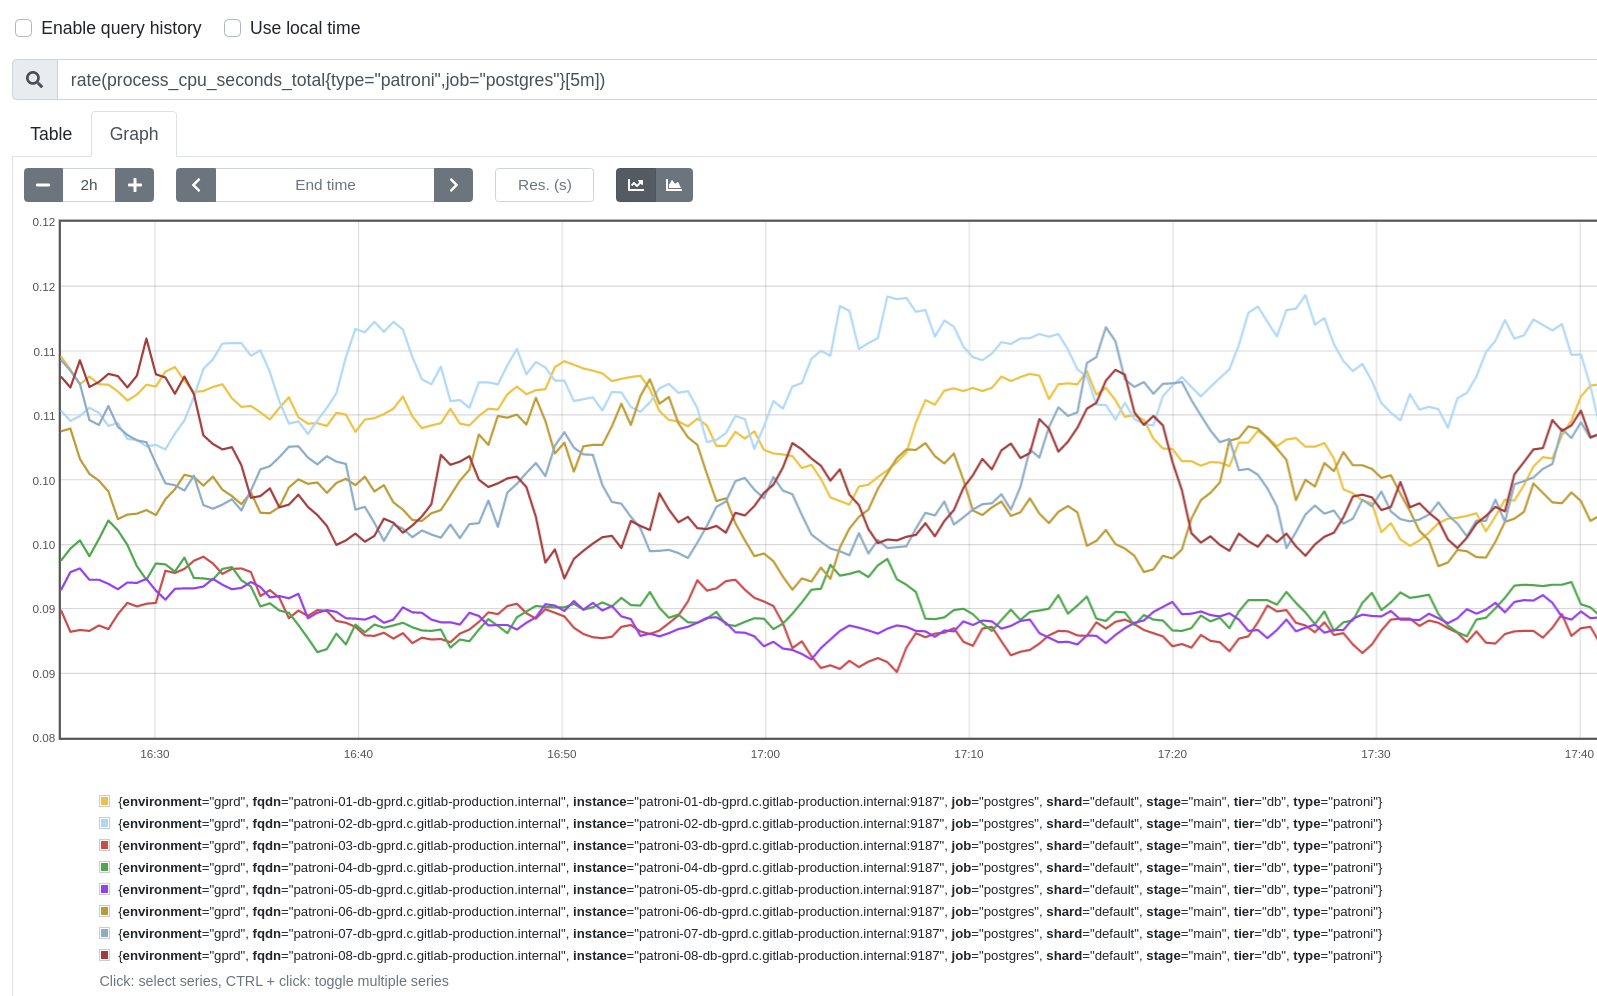
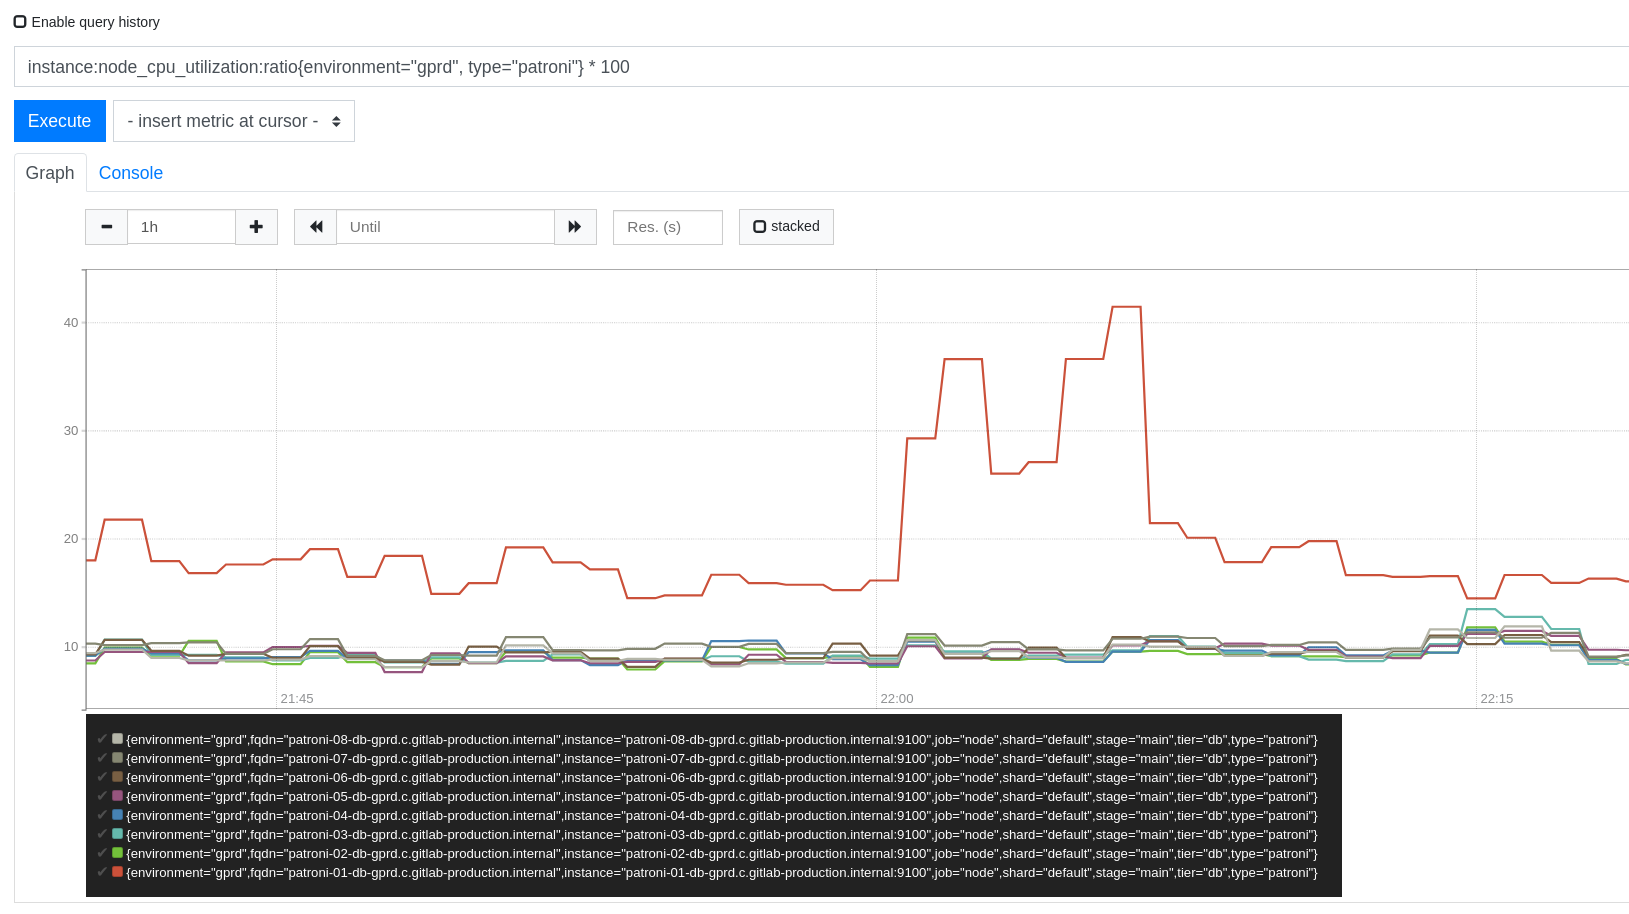
Adding more graphs and pgbouncer information

diff --git a/docs/patroni/performance-degradation-troubleshooting.md b/docs/patroni/performance-degradation-troubleshooting.md
@@ -4,7 +4,7 @@ Database performance degradation may be due to several reasons. This is an asort
 
 
 ### Check CPU utilization
-You can use [this metric](https://prometheus-db.gprd.gitlab.net/new/graph?g0.expr=rate(process_cpu_seconds_total%7Btype%3D%22patroni%22%2Cjob%3D%22postgres%22%7D%5B5m%5D)&g0.tab=0&g0.stacked=0&g0.range_input=2h) to check CPU utilization over the patroni hosts:
+You can use [this metric](https://prometheus.gprd.gitlab.net/graph?g0.range_input=1h&g0.expr=instance%3Anode_cpu_utilization%3Aratio%7Benvironment%3D%22gprd%22%2C%20type%3D%22patroni%22%7D%20*%20100&g0.tab=0&g1.range_input=1h&g1.expr=instance_cpu%3Anode_cpu_seconds_not_idle%3Arate1m&g1.tab=0) to check CPU utilization over the patroni hosts:
 ![](img/patroni-cpu-usage.png)
 
 Check if values are getting close to `1`
@@ -65,6 +65,39 @@ And if you found an specific `pid` that is using many IO%, you can execute `sudo
  
 ```
 
+Disk saturation may also be investigated using _iotop_ tool:
+
+```
+# iostat -x 1 3
+Linux 4.15.0-1047-gcp (patroni-01-db-gprd) 	07/07/2020 	_x86_64_	(96 CPU)
+
+avg-cpu:  %user   %nice %system %iowait  %steal   %idle
+           5.09    0.03    1.83    0.55    0.00   92.51
+
+Device:         rrqm/s   wrqm/s     r/s     w/s    rkB/s    wkB/s avgrq-sz avgqu-sz   await r_await w_await  svctm  %util
+loop0             0.00     0.00    0.00    0.00     0.00     0.00     3.20     0.00    0.00    0.00    0.00   0.00   0.00
+sdc               0.00     1.65    0.06    0.97     6.09    36.53    82.58     0.00    6.96    5.96    7.03   1.16   0.12
+sda               0.00     2.41    1.73    9.70    34.06  1858.20   330.96     0.12   13.27    7.14   14.37   1.38   1.57
+sdb               0.00    82.17  566.59 2433.62 23929.43 50266.94    49.46     0.18    0.03    0.34    0.04   0.07  19.55
+
+avg-cpu:  %user   %nice %system %iowait  %steal   %idle
+           8.38    0.00    2.48    0.50    0.00   88.63
+
+Device:         rrqm/s   wrqm/s     r/s     w/s    rkB/s    wkB/s avgrq-sz avgqu-sz   await r_await w_await  svctm  %util
+loop0             0.00     0.00    0.00    0.00     0.00     0.00     0.00     0.00    0.00    0.00    0.00   0.00   0.00
+sdc               0.00    12.00    0.00    7.00     0.00   112.00    32.00     0.00    0.00    0.00    0.00   0.00   0.00
+sda               0.00     0.00    0.00   38.00     0.00  9112.00   479.58     0.15    5.37    0.00    5.37   0.74   2.80
+sdb               0.00     0.00  490.00 1582.00  4220.00 18576.00    22.00     0.72    0.57    0.66    0.55   0.09  19.60
+
+avg-cpu:  %user   %nice %system %iowait  %steal   %idle
+          10.79    0.00    2.52    0.70    0.00   85.99
+
+Device:         rrqm/s   wrqm/s     r/s     w/s    rkB/s    wkB/s avgrq-sz avgqu-sz   await r_await w_await  svctm  %util
+loop0             0.00     0.00    0.00    0.00     0.00     0.00     0.00     0.00    0.00    0.00    0.00   0.00   0.00
+sdc               0.00     0.00    0.00    0.00     0.00     0.00     0.00     0.00    0.00    0.00    0.00   0.00   0.00
+sda               0.00     0.00    0.00    0.00     0.00     0.00     0.00     0.00    0.00    0.00    0.00   0.00   0.00
+sdb               0.00   133.00  903.00 1647.00  8180.00 22492.00    24.06     1.21    0.68    0.54    0.76   0.11  27.20
+```
 
 
 ### Check for differences in the graphs (same metric, different host)
@@ -77,5 +110,52 @@ In general, when those differences are not easy to explain, its because on some 
 
 
 
+### Check for slow queries
+
+[This board](https://dashboards.gitlab.com/d/000000278/postgresql-slow-queries?orgId=1&refresh=1m) contains information about how many queries took more than 5 seconds, and includes the same value from 7 days before, so you can easily compare both.
+
+Check [this board](https://dashboards.gitlab.com/d/000000153/postgresql-queries?orgId=1&refresh=1m&from=now-3h&to=now&var-environment=gprd&var-type=patroni&var-fqdn=patroni-01-db-gprd.c.gitlab-production.internal&var-prometheus=Global) to check for an increasing rate of slow queries (`Slow queries` graph). You can also check for blocked queries (`Blocked Queries` graph). For troubleshooting blocked queries, see [this runbook](postgresql-locking.md)
 
 
+### Checkpoint activity
+Checkpoint is the act of pushing all the write buffers to disk. A sudden increase of write activity (like indexing, repacking, etc) may also increase the rate of checkpoints, and can cause the system to slow down. You can see [this graph](https://dashboards.gitlab.com/d/000000224/postgresql-bloat?viewPanel=35&orgId=1&refresh=5m&from=now-1h&to=now) to see how often checkpoints are taking place. Focus on the current leader. If checkpoints do ocurr too often (more than [checkpoint_warning](https://postgresqlco.nf/en/doc/param/checkpoint_warning/11/)) you will see a message in the logs, similar to
+
+``` LOG:  checkpoints are occurring too frequently (8 seconds apart) ```
+
+Althoug this is more like a warning message, it can be OK under heavy write activity. 
+
+
+### Check the load from queries
+Too much concurrent activity can affect performance. Refer to [this runbook](postgresql-query-load-evaluation.md) to evaluate server activity.
+
+
+
+### Checks for pgBouncer
+
+#### Waiting clients
+The [PgBouncer Overview](https://dashboards.gitlab.com/d/PwlB97Jmk/pgbouncer-overview?orgId=1&from=now-3h&to=now) shows pgBouncer related information. When troubleshooting, check that:
+- if `Waiting Client Connections per Pool` is  consistenly high, it may be related to slow queries taking most available connections in the pool, so others have to wait. Refer to [this runbook](postgresql-query-load-evaluation.md) to evaluate server activity.
+
+- if `Connection Saturation per Pool` is consistenly close to 100%, probably the database is not able to keep up the requests. Refer to [this runbook](postgresql-query-load-evaluation.md) to evaluate server activity.
+
+- PgBouncer is single threaded. That means that a single core will do most of the job. If `pgbouncer Single Threaded CPU Saturation per Node
+` is consistently close to 100%, performance of pgBouncer will decrease. You can use the `SHOW CLIENTS` command to check where the clients are connecting from for a start:
+
+```
+:~$ sudo pgb-console 
+psql (11.7 (Ubuntu 11.7-2.pgdg16.04+1), server 1.12.0/bouncer)
+Type "help" for help.
+
+pgbouncer=# show clients;
+
+ type |   user    |      database       | state  |     addr     | port  | local_addr | local_port |      connect_time       |      request_time       |  wait  | wait_us | close_needed |      ptr       |   link   | remote_pid | tls 
+------+-----------+---------------------+--------+--------------+-------+------------+------------+-------------------------+-------------------------+--------+---------+--------------+----------------+----------+------------+-----
+ C    | gitlab    | gitlabhq_production | active | 10.218.5.2   | 35140 | 10.217.4.5 |       6432 | 2020-07-03 10:59:50 UTC | 2020-07-03 12:46:38 UTC |      0 |       0 |            0 | 0x7fefc1d29880 |          |          0 | 
+ C    | gitlab    | gitlabhq_production | active | 10.220.4.33  | 43228 | 10.217.4.5 |       6432 | 2020-07-07 18:25:01 UTC | 2020-07-07 19:32:06 UTC |      0 |       0 |            0 | 0x7fefc1d48270 |          |          0 | 
+ C    | gitlab    | gitlabhq_production | active | 10.220.8.9   | 48214 | 10.217.4.5 |       6432 | 2020-07-07 18:25:59 UTC | 2020-07-07 19:31:28 UTC |      0 |       0 |            0 | 0xee0ed8       |          |          0 | 
+ C    | gitlab    | gitlabhq_production | active | 10.220.8.12  | 56232 | 10.217.4.5 |       6432 | 2020-07-07 18:26:00 UTC | 2020-07-07 19:32:24 UTC |      0 |       0 |            0 | 0x7fefc1d48ad0 |          |          0 | 
+ C    | gitlab    | gitlabhq_production | active | 10.220.9.209 | 36196 | 10.217.4.5 |       6432 | 2020-07-07 18:26:47 UTC | 2020-07-07 19:32:36 UTC |      0 |       0 |            0 | 0x7fefc1ce6df8 |          |          0 | 
+ C    | gitlab    | gitlabhq_production | active | 10.220.4.33  | 33986 | 10.217.4.5 |       6432 | 2020-07-07 18:26:51 UTC | 2020-07-07 19:32:38 UTC |      0 |       0 |            0 | 0x7fefc1d43928 |          |          0 | 
+ C    | gitlab    | gitlabhq_production | active | 10.220.8.6   | 46466 | 10.217.4.5 |       6432 | 2020-07-07 18:27:34 UTC | 2020-07-07 19:31:48 UTC |      0 |       0 |            0 | 0x7fefc1d47e40 |          |          0 | 
+ C    | gitlab    | gitlabhq_production | active | 10.218.5.2   | 57862 | 10.217.4.5 |       6432 | 2020-07-07 18:27:44 UTC | 2020-07-07 18:27:44 UTC |      0 |       0 |           
+```
